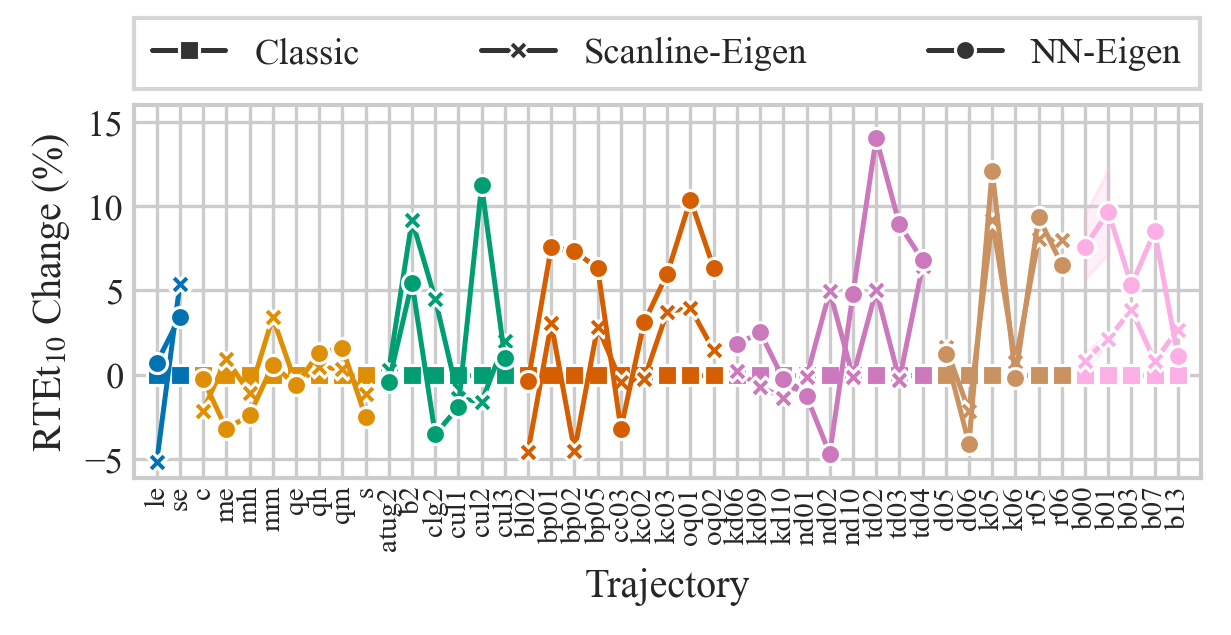
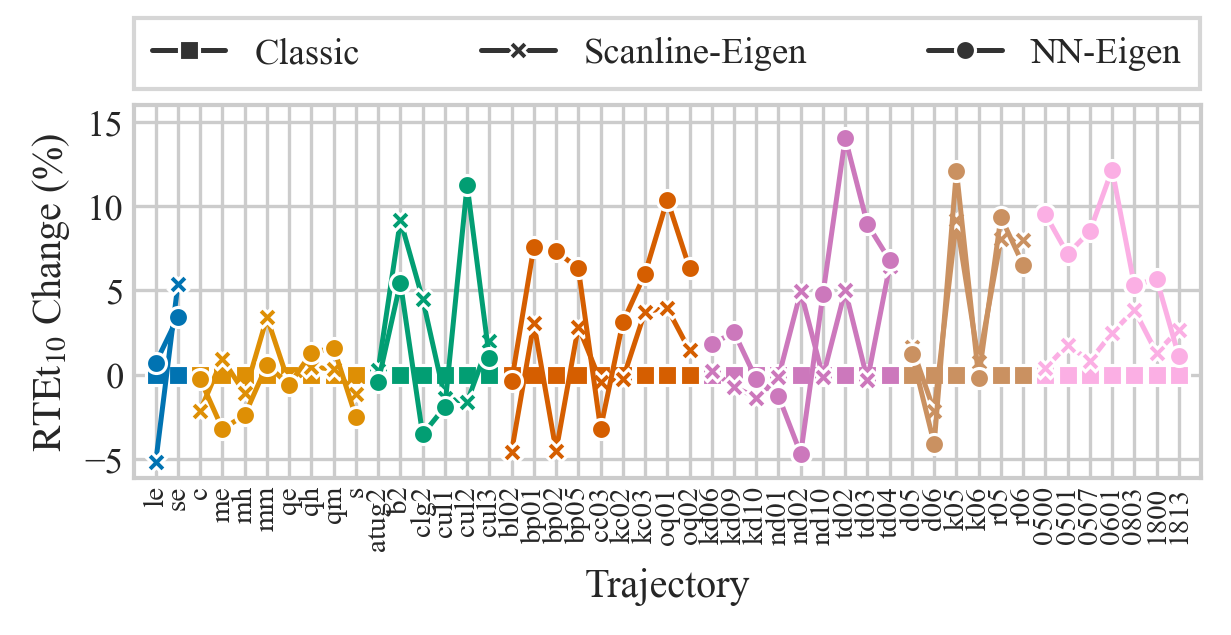
Finalize rerunning all experiments, fix botanic garden sequence names

Changed region(s): [[0.1235, 0.1496, 0.9878, 0.8677]]

diff --git a/src/lidar_eval/stats.py b/src/lidar_eval/stats.py
@@ -369,6 +369,9 @@ def compute_cache_stats(directory: Path, force: bool = False) -> pl.DataFrame:
         }
 
         def short(f: str) -> str:
+            # hack for extra `b` in botanic_garden sequences
+            if f.startswith("b10"):
+                f = f[1:]
             if f.isdigit():
                 return f[-2:]
             else:

diff --git a/experiments/window.py b/experiments/window.py
@@ -20,7 +20,7 @@ from env import (
     setup_plot,
 )
 
-dir = RESULTS_DIR / "25.07.8_window_final"
+dir = RESULTS_DIR / "25.07.08_window_final"
 
 
 def run(num_threads: int):
